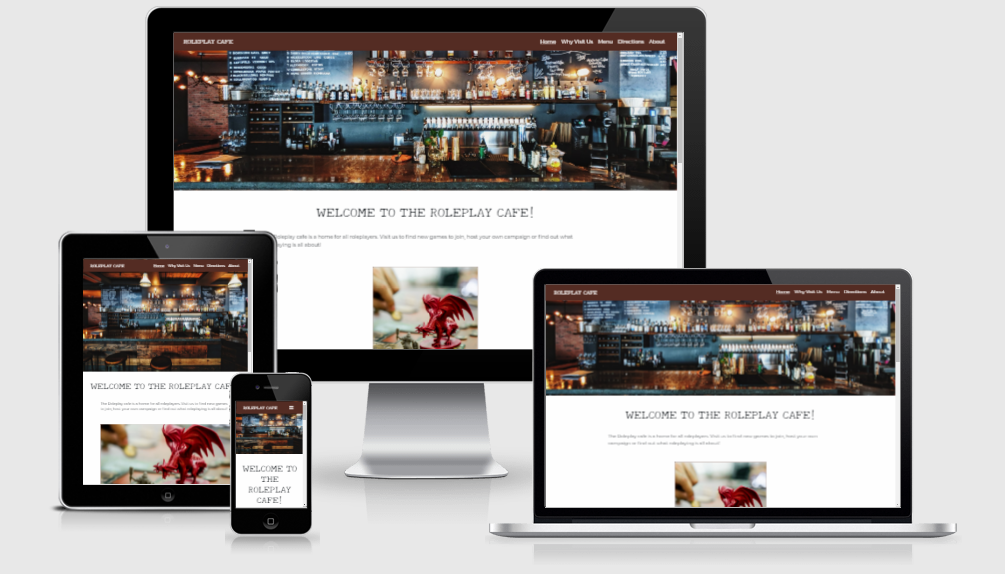
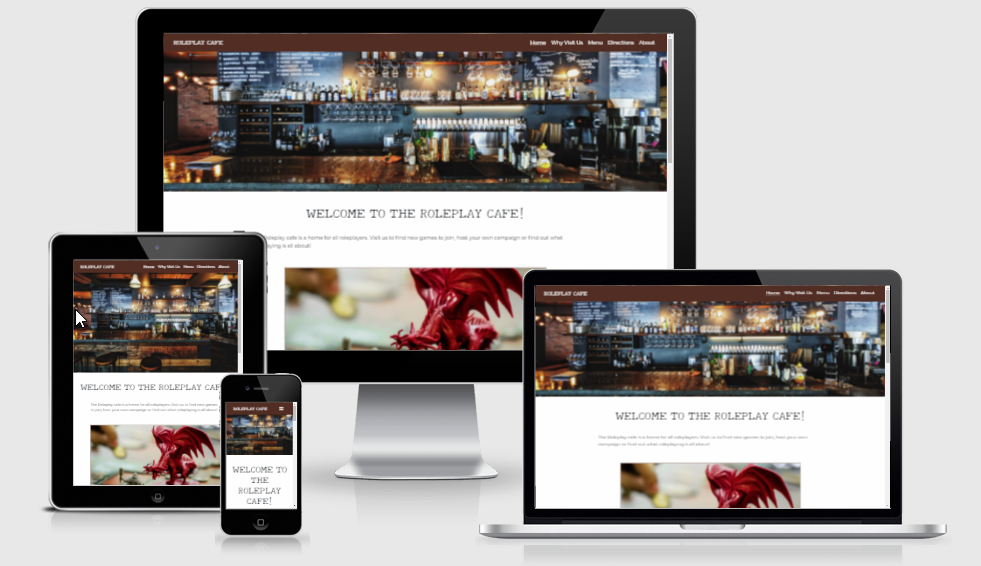
Remove links to about.html from the nav bar: I'm removing the About page from the project.

diff --git a/directions.html b/directions.html
@@ -43,11 +43,6 @@
                                         class="sr-only">Link to
                                         Directions page</span></a>
                             </li>
-                            <li class="nav-item ">
-                                <a class="nav-link hvr-underline-from-left" href="about.html">About <span
-                                        class="sr-only">Link to About
-                                        page</span></a>
-                            </li>
                         </ul>
                     </div>
                 </nav>

diff --git a/index.html b/index.html
@@ -43,11 +43,6 @@
                                         class="sr-only">Link to
                                         Directions page</span></a>
                             </li>
-                            <li class="nav-item ">
-                                <a class="nav-link hvr-underline-from-left" href="about.html">About <span
-                                        class="sr-only">Link to About
-                                        page</span></a>
-                            </li>
                         </ul>
                     </div>
                 </nav>

diff --git a/menu.html b/menu.html
@@ -43,11 +43,6 @@
                                         class="sr-only">Link to
                                         Directions page</span></a>
                             </li>
-                            <li class="nav-item ">
-                                <a class="nav-link hvr-underline-from-left" href="about.html">About <span
-                                        class="sr-only">Link to About
-                                        page</span></a>
-                            </li>
                         </ul>
                     </div>
                 </nav>

diff --git a/visit.html b/visit.html
@@ -43,11 +43,6 @@
                                         class="sr-only">Link to
                                         Directions page</span></a>
                             </li>
-                            <li class="nav-item ">
-                                <a class="nav-link hvr-underline-from-left" href="about.html">About <span
-                                        class="sr-only">Link to About
-                                        page</span></a>
-                            </li>
                         </ul>
                     </div>
                 </nav>

diff --git a/README.md b/README.md
@@ -8,7 +8,7 @@ As such, the site needs to meet the needs of both visitors and owners:
 - returning visitors need to quickly find relevant information, for instance about events.
 - the owners want to convert new visitors into recurring visitors and have recurring visitors return to the cafe.
 
-To visit the site, go to [https://ricardoazuul.github.io](https://ricardoazuul.github.io/)
+To visit the site, open [https://ricardoazuul.github.io](https://ricardoazuul.github.io/)
 
 ---
 
